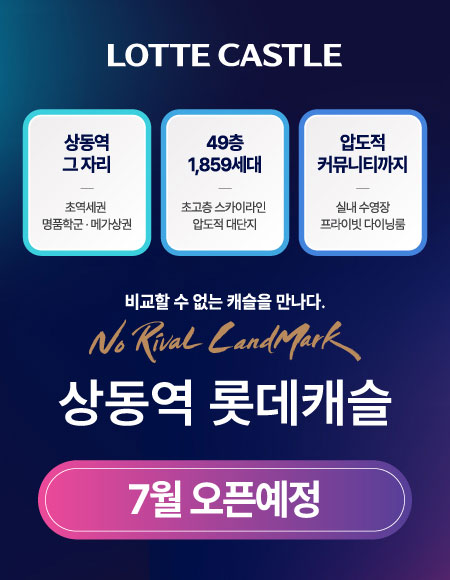
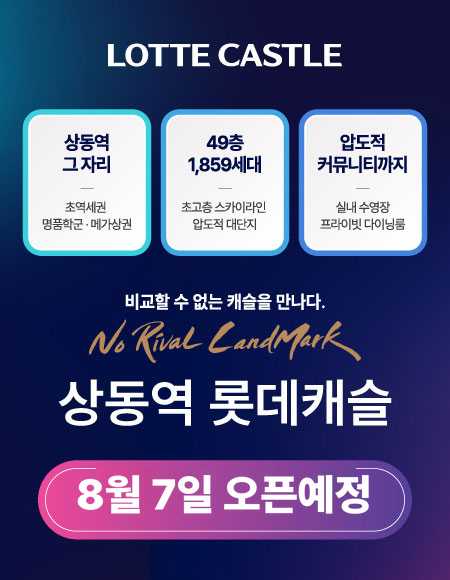
팝업 오픈일 문구 8월 7일로 변경
- popup.jpg: '7월 오픈예정' → '8월 7일 오픈예정' (Pretendard Black, 그라데이션 복원)
- alt/aria-label 문구 동기화

Changed region(s): [[0.1556, 0.8069, 0.84, 0.9]]

diff --git a/app/components/Popup.tsx b/app/components/Popup.tsx
@@ -58,7 +58,7 @@ export default function Popup() {
         className="popup"
         role="dialog"
         aria-modal="true"
-        aria-label="상동역 롯데캐슬 7월 오픈예정 안내"
+        aria-label="상동역 롯데캐슬 8월 7일 오픈예정 안내"
         onClick={(e) => e.stopPropagation()}
       >
         <button type="button" className="popup-x" onClick={close} aria-label="팝업 닫기">
@@ -70,7 +70,7 @@ export default function Popup() {
         <a href="#register" onClick={close} className="popup-img">
           <Image
             src="/assets/popup.jpg"
-            alt="상동역 롯데캐슬 — 49층 1,859세대, 7월 오픈예정"
+            alt="상동역 롯데캐슬 — 49층 1,859세대, 8월 7일 오픈예정"
             width={450}
             height={580}
             priority
